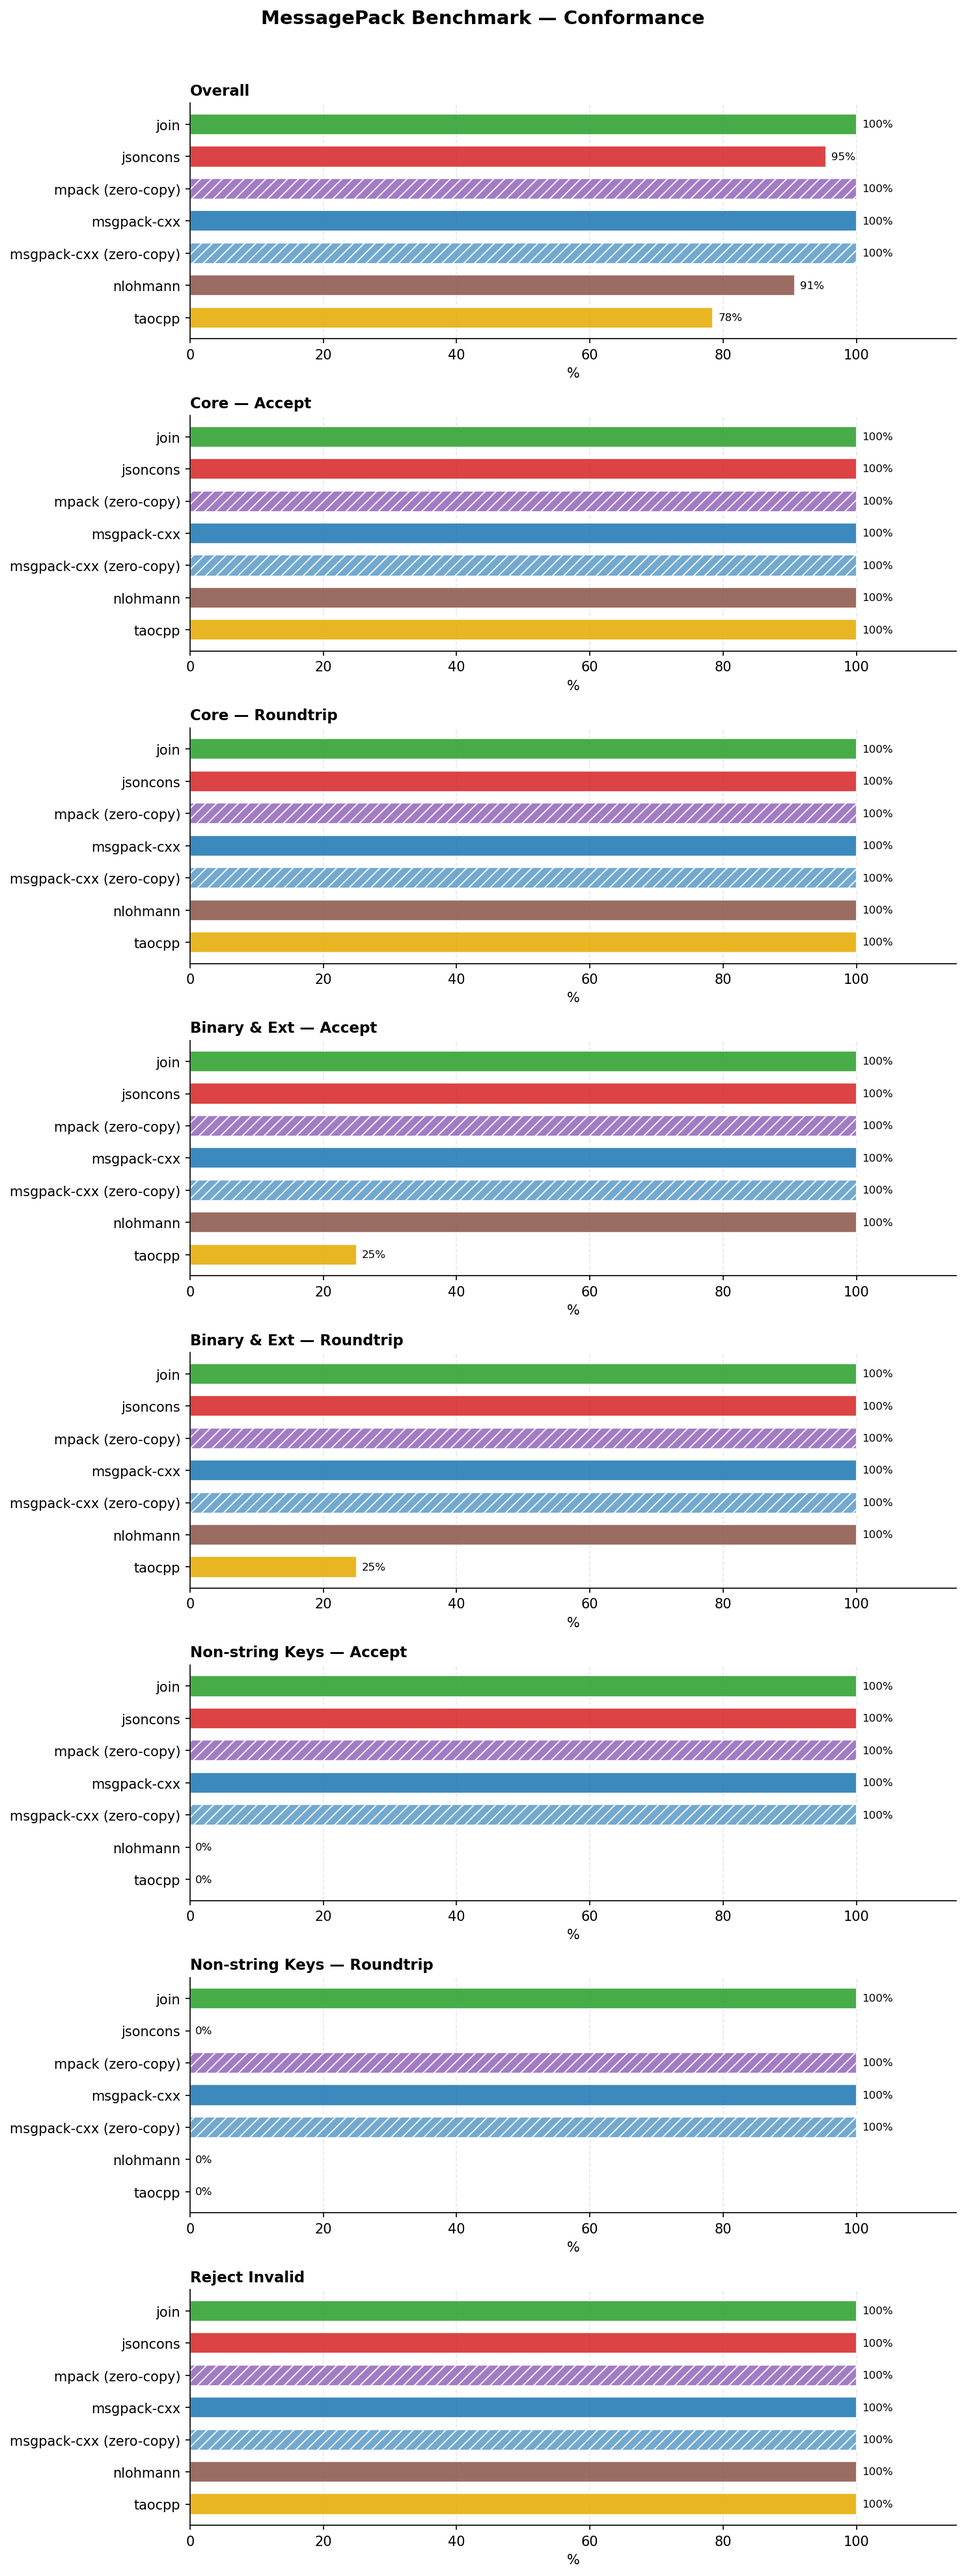
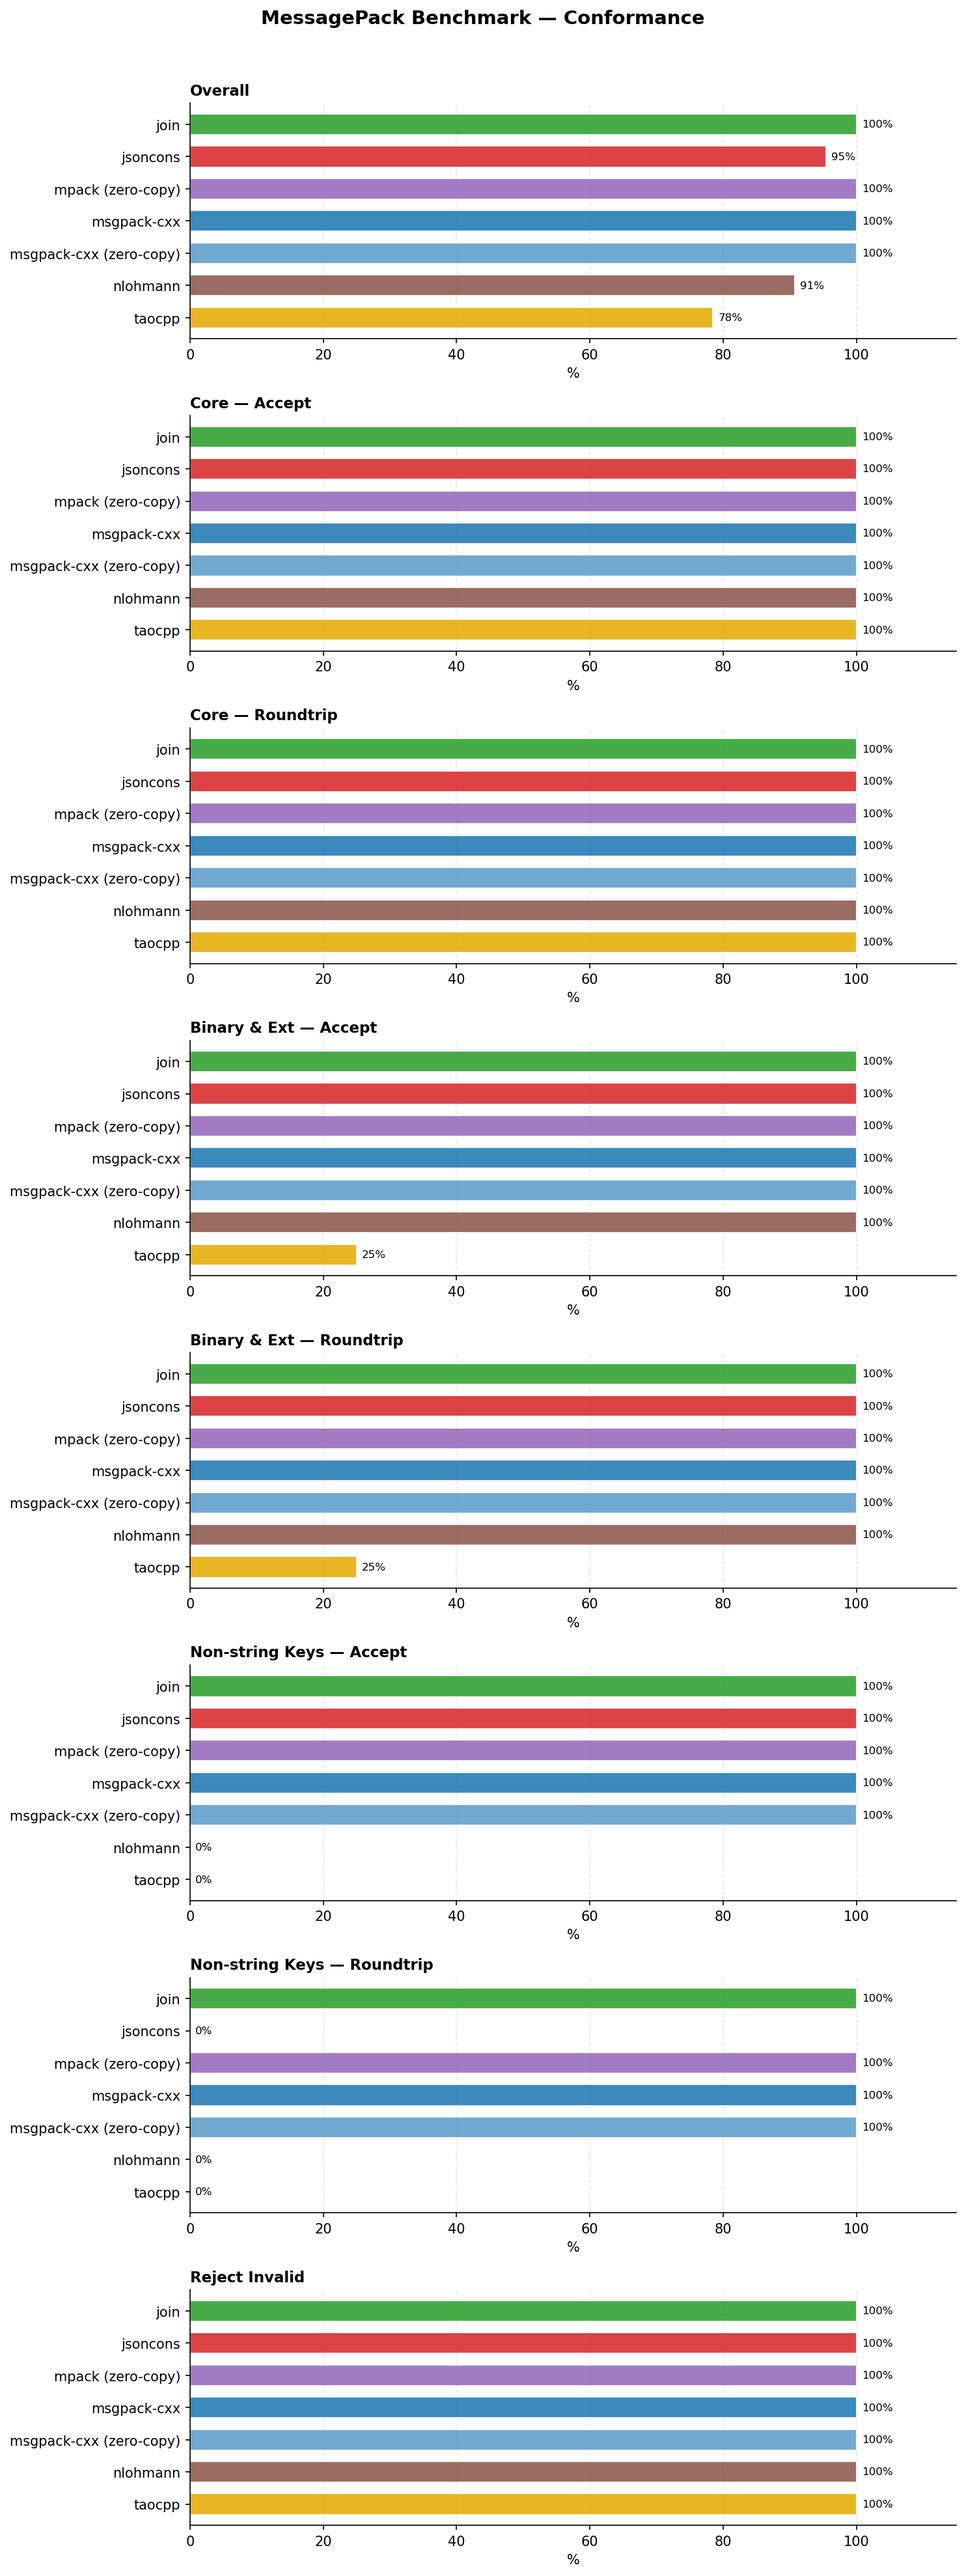
remove zero-copy hatching

diff --git a/plots/plot.py b/plots/plot.py
@@ -33,15 +33,8 @@ _FAMILY_COLORS = {
 }
 _LIB_COLORS: dict[str, tuple] = {}
 
-ZERO_COPY_HATCH = "///"
-
 def _family(name: str) -> str:
     return name.split(" (")[0].split("/")[0]
-
-def _set_hatches(bars, libs: list[str]) -> None:
-    for bar, lib in zip(bars, libs):
-        if "(zero-copy)" in lib:
-            bar.set_hatch(ZERO_COPY_HATCH)
 
 def _lib_color(name: str) -> tuple:
     if name not in _LIB_COLORS:
@@ -89,7 +82,6 @@ def _barh_ax(ax: plt.Axes, summary: pd.Series, title: str) -> None:
     values = summary.tolist()
     colors = [_lib_color(lib) for lib in libs]
     bars = ax.barh(libs, values, color=colors, alpha=0.87, height=0.65, edgecolor="white")
-    _set_hatches(bars, libs)
     ax.bar_label(bars, labels=[f"{v:.3g}" for v in values], padding=4, fontsize=8)
     ax.set_title(title, fontsize=11, fontweight="bold", loc="left", pad=6)
     ax.set_xlabel("Time (ms)")
@@ -212,8 +204,7 @@ def plot_conformance(conf_path: str, output_dir: Path) -> None:
         vals   = [r[c] for r in rows]
         colors = [_lib_color(lib) for lib in libs]
 
-        bars = ax.barh(libs, vals, color=colors, alpha=0.87, height=0.65, edgecolor="white")
-        _set_hatches(bars, libs)
+        ax.barh(libs, vals, color=colors, alpha=0.87, height=0.65, edgecolor="white")
         for i, v in enumerate(vals):
             ax.text(min(v + 0.8, 101), i, f"{v:.0f}%", va="center", fontsize=8)
 

diff --git a/README.md b/README.md
@@ -38,7 +38,7 @@ Companion of [json-benchmark](https://github.com/joinframework/json-benchmark), 
 
 All dependencies are fetched automatically via CMake FetchContent, at pinned versions (`cmake/deps.cmake`).
 
-Libraries fall into two categories, marked in the plots by hatched bars for the zero-copy ones:
+Libraries fall into two categories, the zero-copy ones being labelled `(zero-copy)` in the plots:
 - **copying** — the DOM owns its strings, binaries and extension payloads, and the input buffer can be released after parse;
 - **zero-copy** — the DOM references the input buffer for strings, binaries and extension payloads, which must outlive the DOM. Parse then does no string copy, and statistics or serialize read the payloads from the input. Their figures are not like-for-like with the copying libraries.
 
